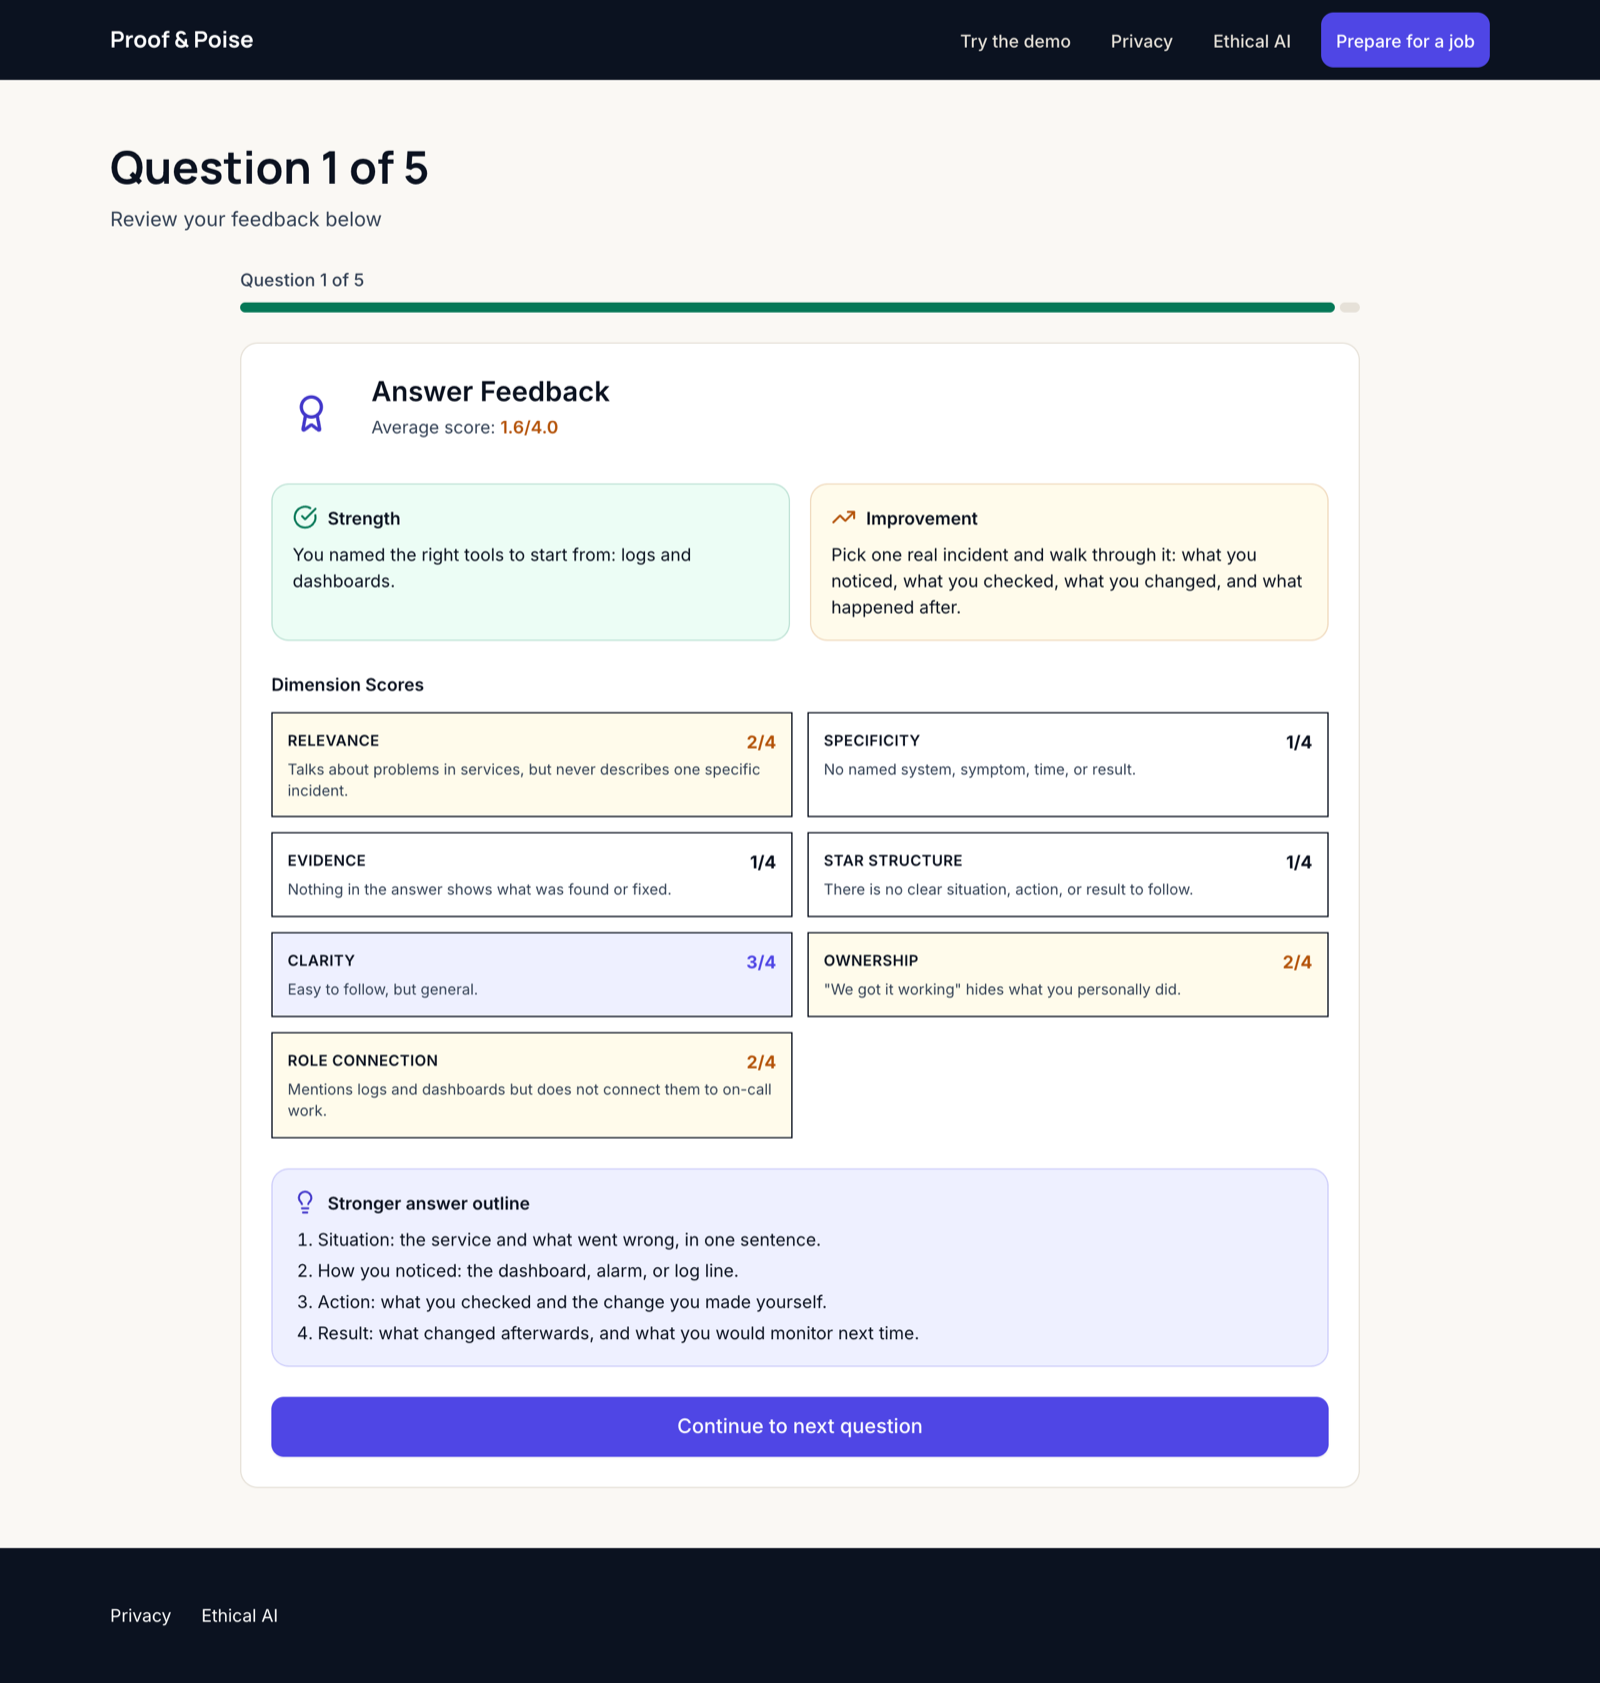
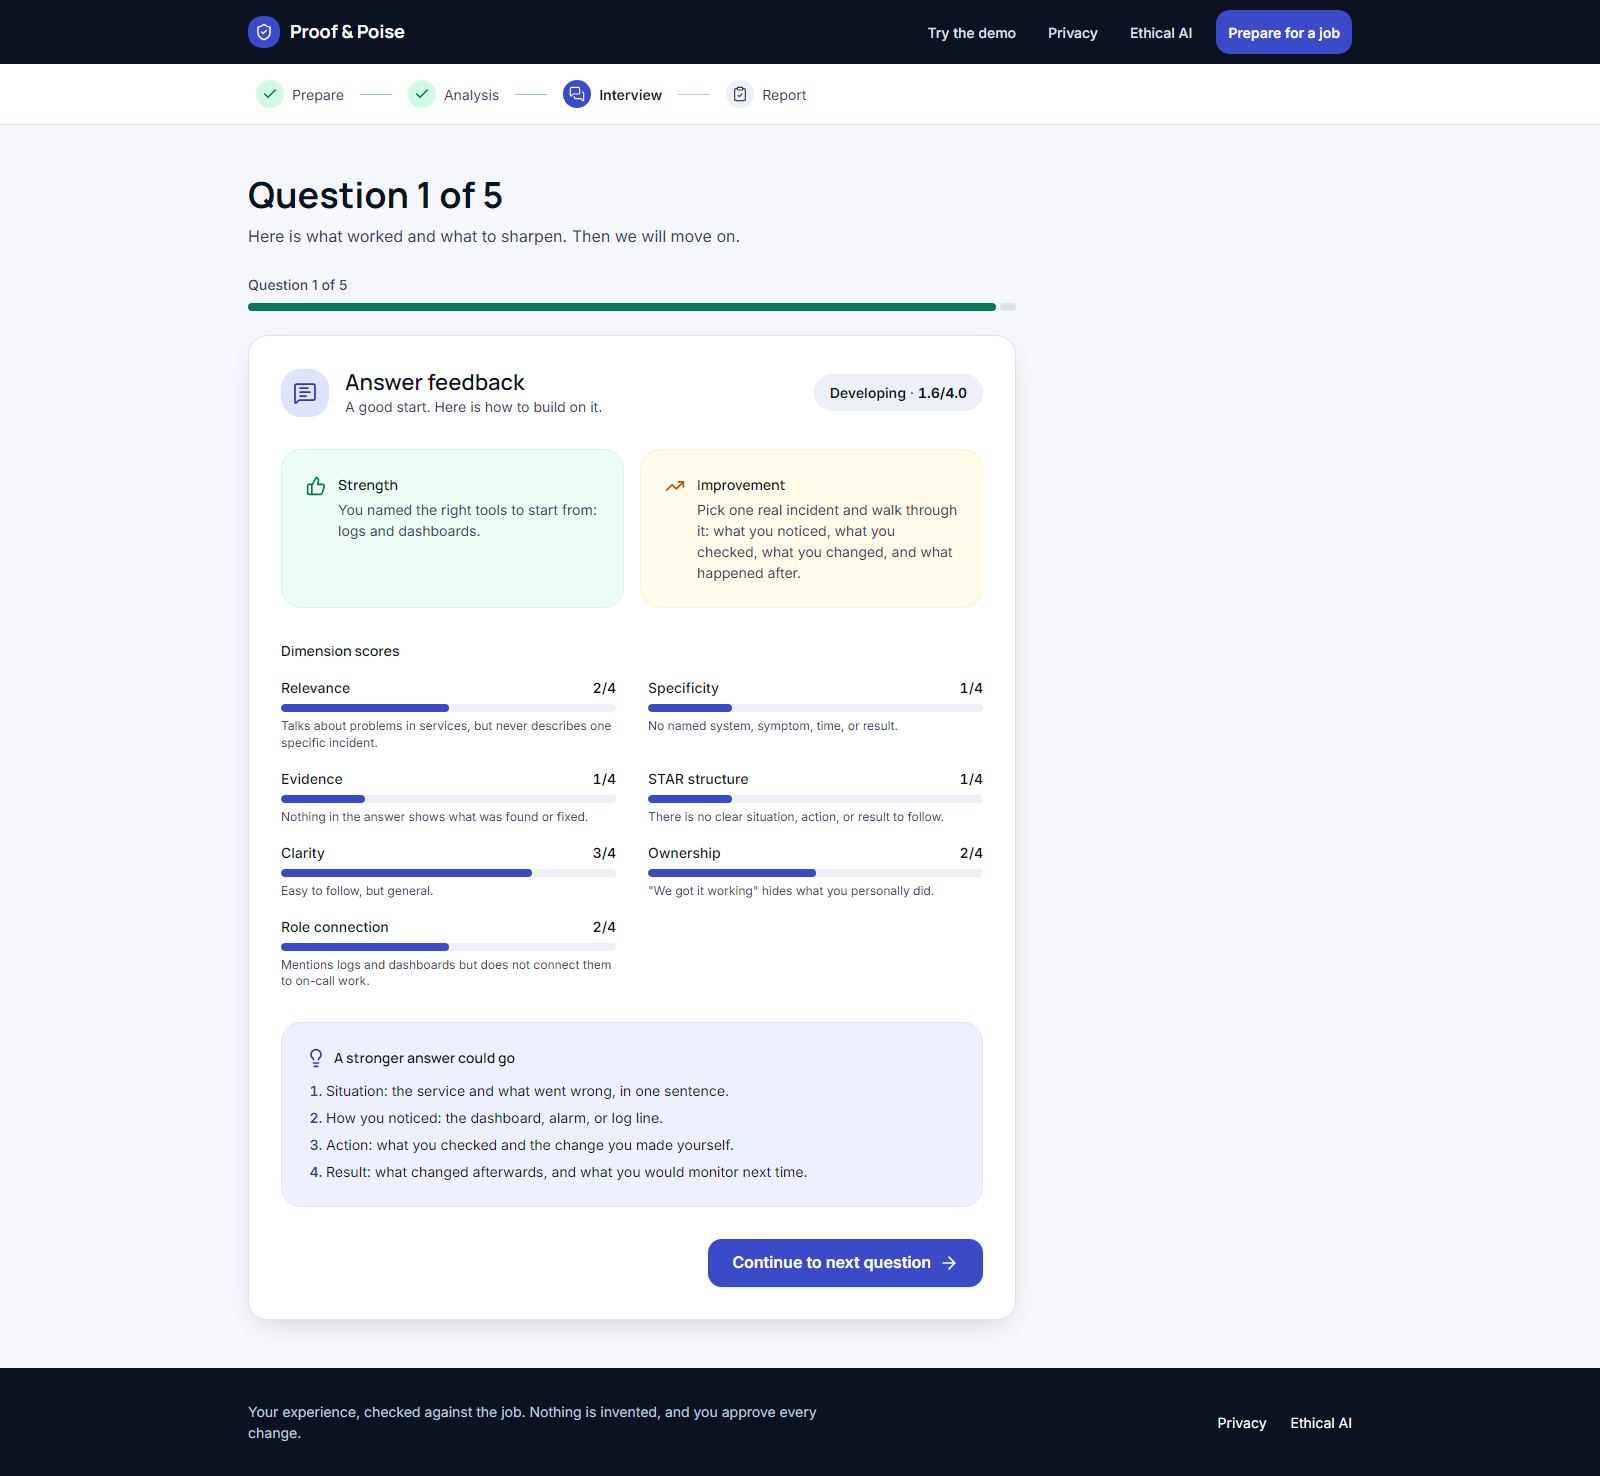
docs: regenerate app screenshots after the redesign; add follow-up shot
All from the fictional demo session (MSW). Same names and sizes as before:
1600 px full-page desktop, 375 px viewport for mobile-375.

Claude-Session: https://claude.ai/code/session_01SZ1Xg6tQWED121VkAiDnZj

Changed region(s): [[0.1562, 0.4051, 0.8438, 0.8726], [0.0, 0.0, 1.0, 0.4051], [0.0, 0.9038, 1.0, 0.9973]]

diff --git a/docs/screenshots/README.md b/docs/screenshots/README.md
@@ -1,6 +1,6 @@
 # Screenshots
 
-App screenshots come from the fictional demo session (MSW mock, `dev:mock`). Desktop shots are full-page captures at 1600 px wide; `mobile-375.png` is a 375 px viewport at device scale.
+App screenshots come from the fictional demo session (MSW mock, `dev:mock`) and were regenerated on 2026-10-02 after the visual redesign. Desktop shots are full-page captures at 1600 px wide; `mobile-375.png` is a 375 px viewport at device scale.
 
 Before adding any image, review it for credentials, AWS account IDs, ARNs, API IDs, bucket names, URLs with IDs, email addresses, and personal data, and blur or crop them (Req 18.3). Use the fictional demo session only.
 
@@ -17,6 +17,7 @@ Before adding any image, review it for credentials, AWS account IDs, ARNs, API I
 - [x] `tailor.png`: Tailor resume tab (proven keywords added to Skills, gaps to confirm).
 - [x] `tailored-resume.png`: tailored resume with the changed line marked.
 - [x] `interview.png`: interview answer feedback.
+- [x] `interview-followup.png`: the guaranteed follow-up question (1a) after an answer.
 - [x] `report.png`: readiness report.
 - [x] `mobile-375.png`: Tailor resume tab at 375 px.
 - [ ] `TODO(user): cost-explorer.png`: Cost Explorer total (redacted).
